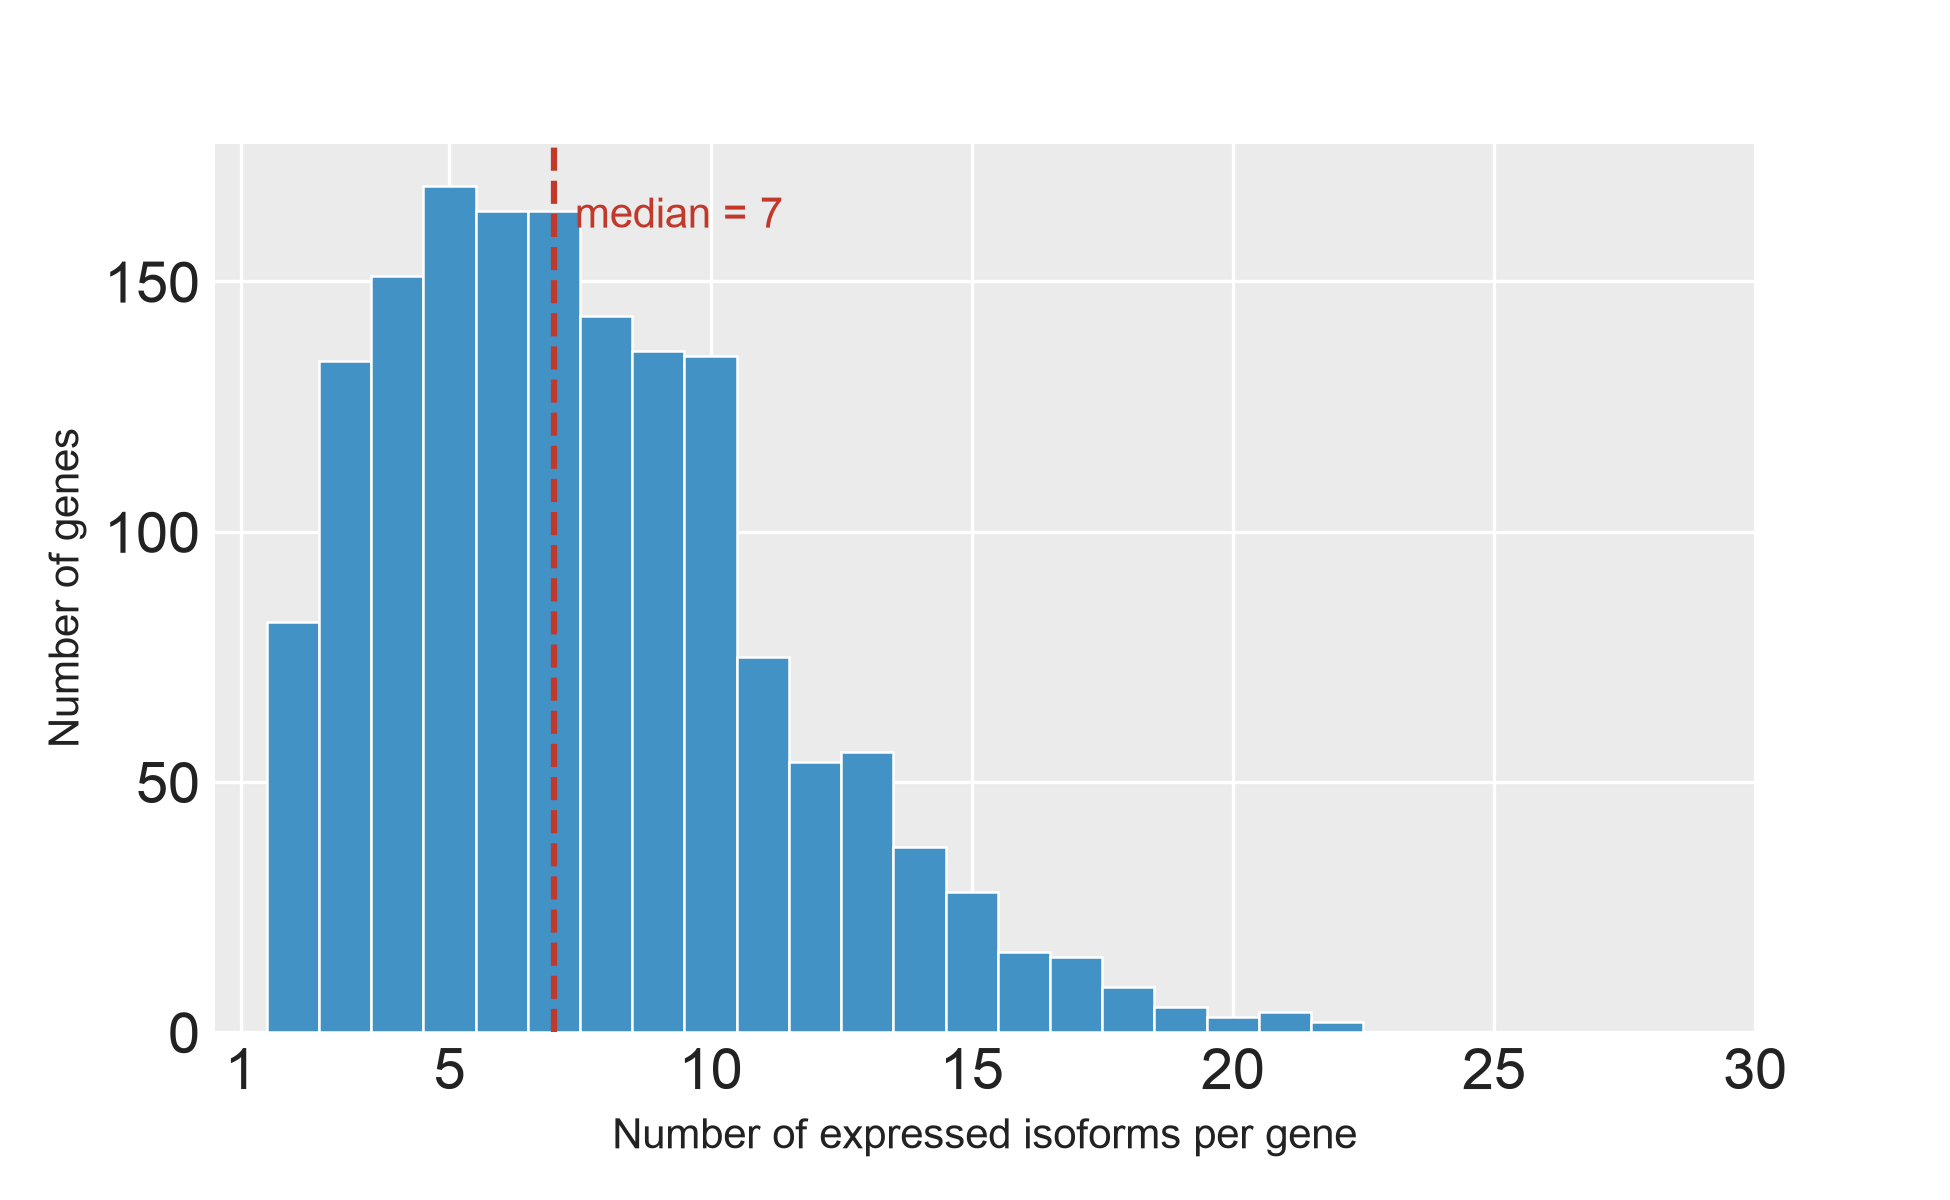
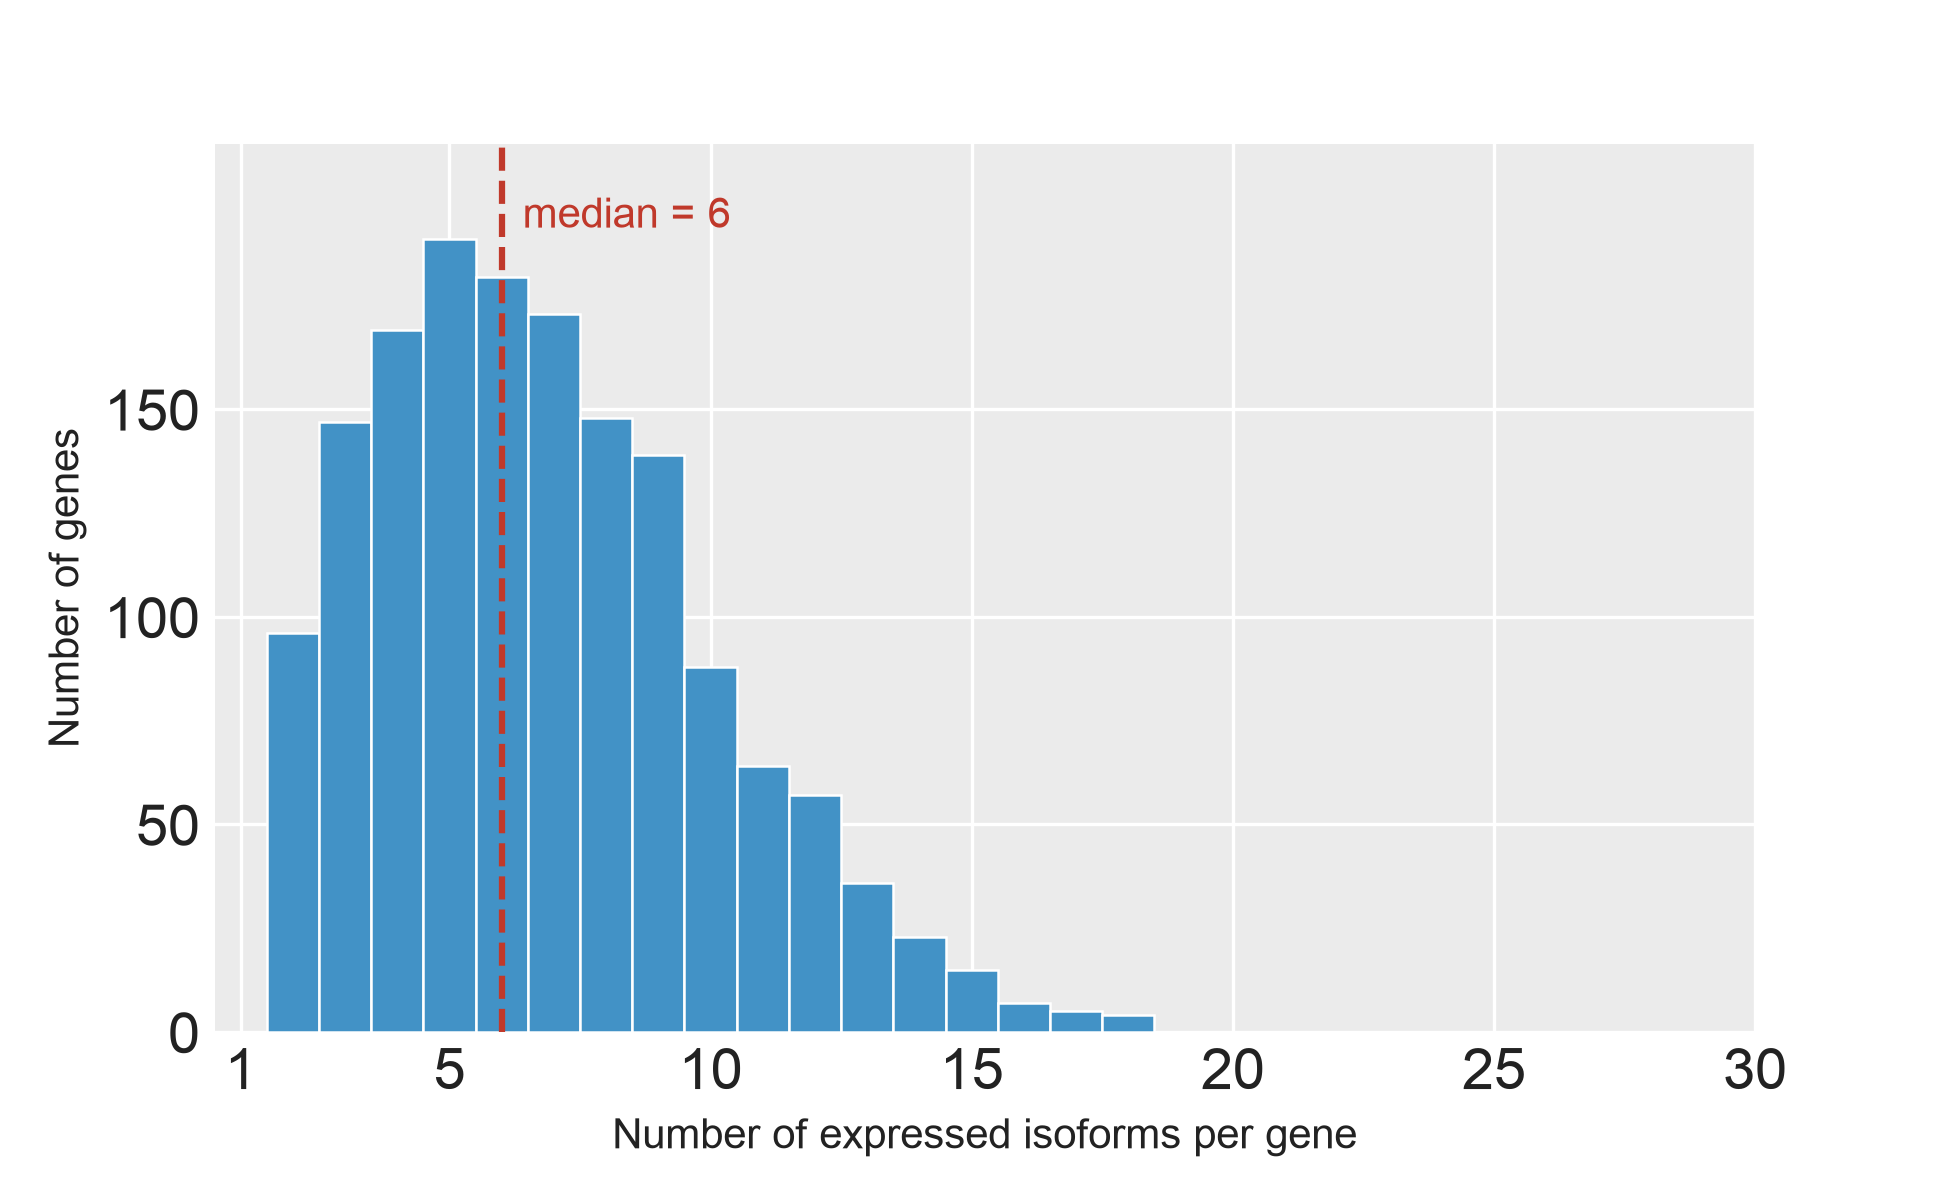
4-CT re-scope R3: SF25 (1548 genes, median 6) + SF27 (1548 triplets)
- SF25: n 1585->1548; median 7->6; legend + y-tick clip fixed (cap ticks
  below top edge, validator now clean).
- SF27: n 1585->1548; medians ref/nmd/ctrl 2896/3018/2742; %d-on-double bug fix.

diff --git a/figures/SupplementalFigures/SF25_IsoformsPerGene/figure_sf25_isoforms_per_gene.py b/figures/SupplementalFigures/SF25_IsoformsPerGene/figure_sf25_isoforms_per_gene.py
@@ -56,6 +56,14 @@ def main():
     bins = np.arange(1, max_bin + 2) - 0.5
     ax.hist(counts, bins=bins, color=BAR_COLOR, edgecolor="white", linewidth=0.6, zorder=3)
 
+    # Explicit y-headroom + capped ticks so the top y-tick label never clips the
+    # figure top edge (4-CT re-scope: median dropped to 6, tallest bin grew and
+    # the auto-limit placed a 250 tick that clipped).
+    bin_heights, _ = np.histogram(counts, bins=bins)
+    top_h = int(bin_heights.max())
+    ax.set_ylim(0, top_h * 1.12)
+    ax.set_yticks(np.arange(0, top_h, 50))
+
     # Median reference line
     ax.axvline(med, linestyle="--", color="#c0392b", linewidth=1.5, zorder=4)
     ymax = ax.get_ylim()[1]

diff --git a/figures/SupplementalFigures/SF27_TranscriptLengthByRole/figure_sf27_transcript_length_by_role_legend.md b/figures/SupplementalFigures/SF27_TranscriptLengthByRole/figure_sf27_transcript_length_by_role_legend.md
@@ -1,1 +1,1 @@
-**SF27 | Transcript Length by Isopair Analysis Category.** Violin plot of transcript length (log10 nt) for the 1,585 gene-matched isoform triplets: NMD comparator (orange), Reference (grey), Control comparator (blue). Reference is the highest-expressed non-NMD isoform per gene under DMSO across the four cell types (AT2, LAE, FB, MV); the NMD and Control comparators are the paired NMD-susceptible and non-NMD non-reference isoforms from the same gene. Solid black bar, median. Abbreviations. nt, nucleotides.
+**SF27 | Transcript Length by Isopair Analysis Category.** Violin plot of transcript length (log10 nt) for the 1,548 gene-matched isoform triplets: NMD comparator (orange), Reference (grey), Control comparator (blue). Reference is the highest-expressed non-NMD isoform per gene under DMSO across the four cell types (AT2, LAE, FB, MV); the NMD and Control comparators are the paired NMD-susceptible and non-NMD non-reference isoforms from the same gene. Solid black bar, median. Abbreviations. nt, nucleotides.

diff --git a/figures/SupplementalFigures/SF25_IsoformsPerGene/figure_sf25_isoforms_per_gene_legend.md b/figures/SupplementalFigures/SF25_IsoformsPerGene/figure_sf25_isoforms_per_gene_legend.md
@@ -1,1 +1,1 @@
-**SF25 | Isoforms per Gene in Isopair Analysis.** Distribution of the number of expressed isoforms per gene across the 1,585 genes for which gene-matched NMD-susceptible / reference / non-NMD isoform triplets could be constructed. The median gene contributes 7 isoforms (dashed line). Counts include all long-read isoforms passing the expression filter in at least one of the four cell types (AT2, LAE, FB, MV) under DMSO.
+**SF25 | Isoforms per Gene in Isopair Analysis.** Distribution of the number of expressed isoforms per gene across the 1,548 genes for which gene-matched NMD-susceptible / reference / non-NMD isoform triplets could be constructed. The median gene contributes 6 isoforms (dashed line). Counts include all long-read isoforms passing the expression filter in at least one of the four cell types (AT2, LAE, FB, MV) under DMSO.
